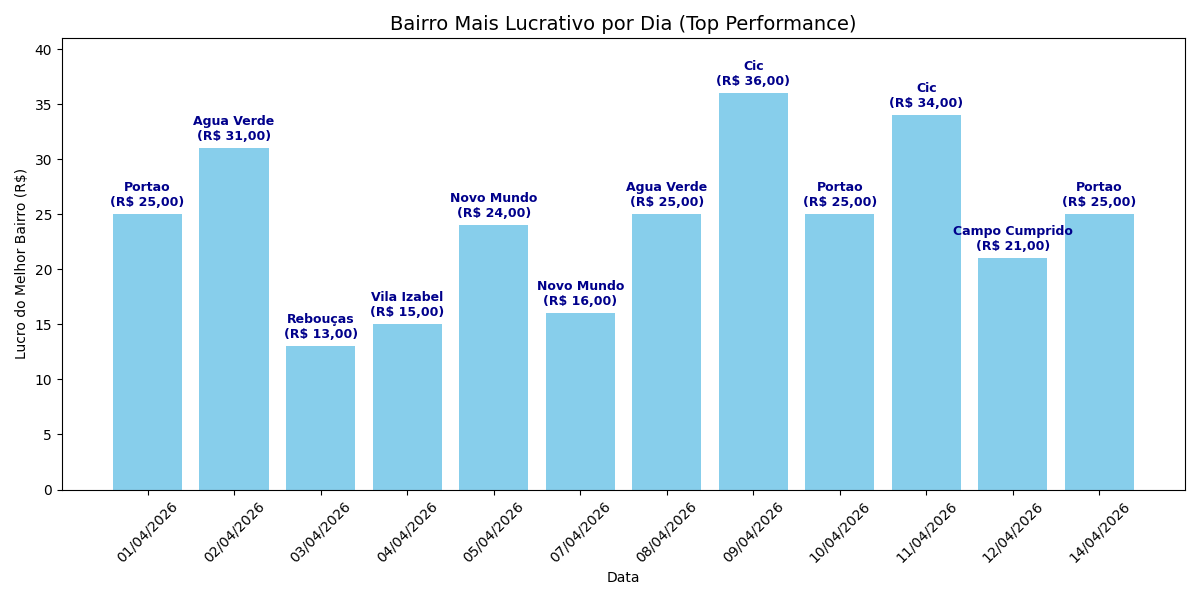
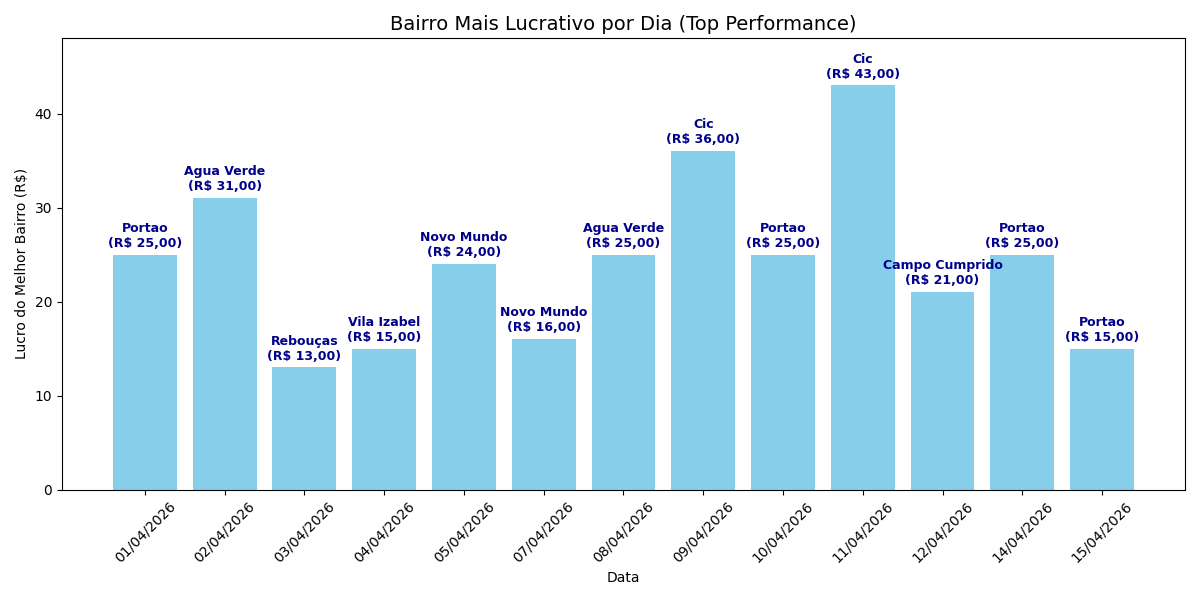
correcao de datas do csv e adiconando novo dia ao relatorio 15/04/2026

diff --git a/filtragem de relatorio de entregas.py b/filtragem de relatorio de entregas.py
@@ -17,7 +17,7 @@ df['taxa'] = pd.to_numeric(df['taxa'], errors='coerce') # Garantindo que é form
 df = df.dropna(subset=['taxa']) # Removendo entregas sem valor registrado (0)
 df['bairro'] = df['bairro'].str.strip().str.lower() # Padronizando os nomes das rotas por garantia
 df['bairro'] = df['bairro'].str.title() #aqui deixa a primeira letra maiuscula da palavra padronizado para todos
-
+print(df)
 coleta_dt =  pd.to_datetime(df['pedido_coletado'],format='%H:%M')  #formatando a coluna pedido coletado para o tipo data
 entrega_dt = pd.to_datetime(df['pedido_entregue'],format ='%H:%M') #formatando a coluna pedido coletado para o tipo data
 
@@ -25,9 +25,11 @@ diferenca = entrega_dt - coleta_dt#calculo de tempo da coleta ate a entrega
 df['tempo_entrega(min)'] = diferenca.dt.total_seconds() / 60 #adicionando coluna tempo_entrega para exibir o tempo gasto da coleta ate a entrega formatado em minutos
 df['pedido_coletado'] = coleta_dt.dt.strftime('%H:%M') #padronizando a coluna pedido_coletado em hora e minuto
 df['pedido_entregue'] = entrega_dt.dt.strftime('%H:%M') #padronizando a coluna pedido_entregue em hora e minuto
-
+print(df)
 # Removendo erros (entregas negativas)
-df = df[df['tempo_entrega(min)'] > 0] #se no dataframe a entrega tiver tempo negativo ou igual a zero ela nao sera exibida, só as que tiverem mais doque 1 min de tempo entre a coleta e a entrega
+df = df[df['tempo_entrega(min)'] > 1] #se no dataframe a entrega tiver tempo negativo ou igual a zero ela nao sera exibida, só as que tiverem mais doque 1 min de tempo entre a coleta e a entrega
+print('bibibi')
+print(df)
 print("Dados limpos e prontos!")
 
 print(df) #exibindo o dataframe para ver os dados formatados e limpos
